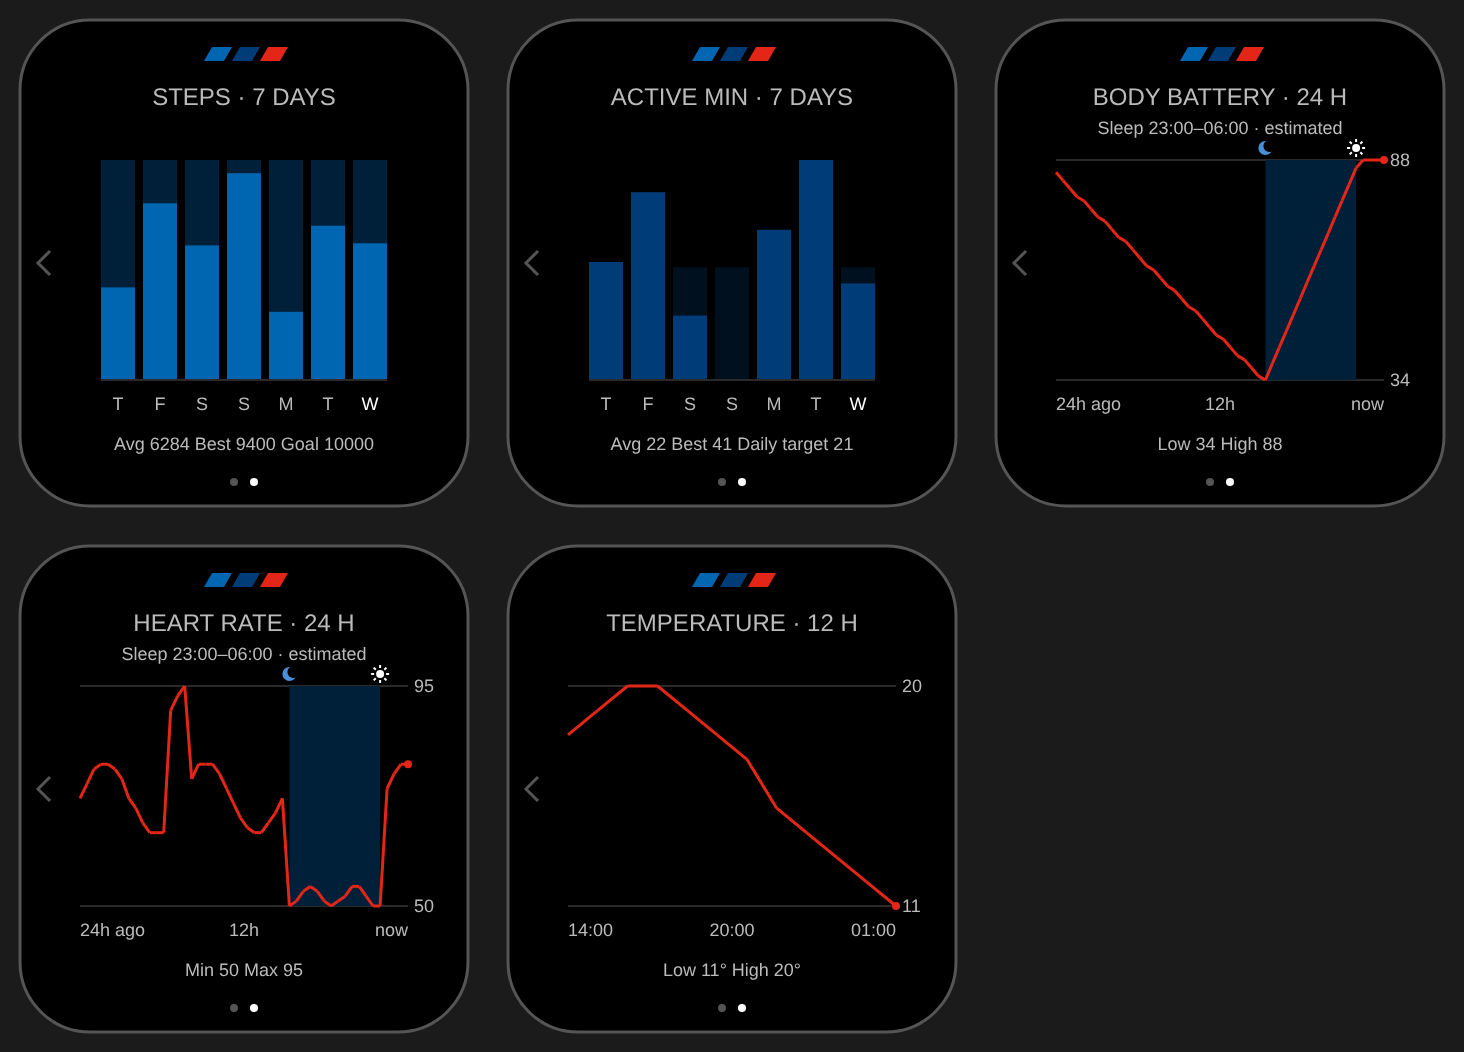
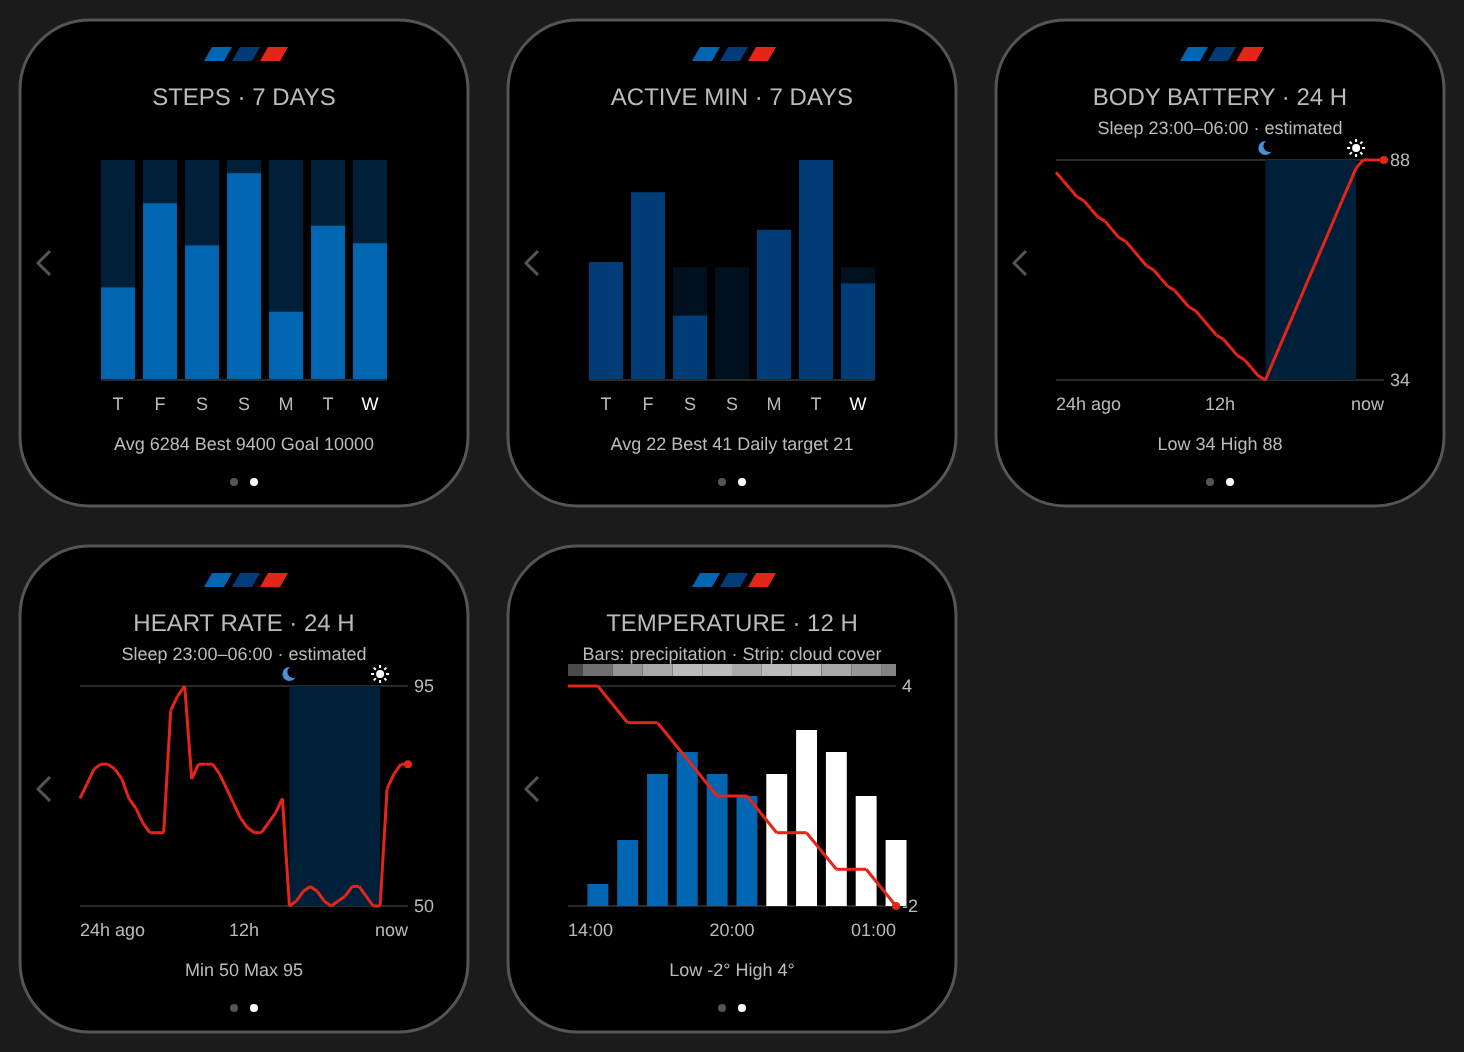
Weather graph: precipitation bars (rain or snow) and a cloud cover strip
Overlay the hourly precipitation chance as bars behind the temperature line and
the hourly cloud cover as a grey strip above the chart, from HourlyForecast
precipitationChance and cloudCover. Colour the bars blue for rain and white for
snow and other frozen precipitation, decided from the condition code by a new
pure Precip module with tests. Label the bars "precipitation", not "rain".
Stats.greyLevel() maps cloud percent to a grey (tested). Add a few more
condition names (flurries, sleet, wintry mix, freezing rain, hail, mostly clear)
to the weather page; all names confirmed in the SDK reference.

Claude-Session: https://claude.ai/code/session_01CEiR5mX4CwQUtKoZKTxSUA

Changed region(s): [[0.3689, 0.6084, 0.6455, 0.8821], [0.4611, 0.9125, 0.5533, 0.943]]

diff --git a/tools/wireframes.py b/tools/wireframes.py
@@ -404,7 +404,14 @@ def sun(s, x, y):
         s.line((x + math.cos(a) * 6, y + math.sin(a) * 6), (x + math.cos(a) * 9, y + math.sin(a) * 9), WHITE, 2)
 
 
-def line_chart(s, vals, color, xlabels, sleep=None):
+def grey_level(pct):
+    """Mirror of Stats.greyLevel()."""
+    p = max(0, min(100, pct))
+    v = p * 0xBB // 100
+    return "#%02X%02X%02X" % (v, v, v)
+
+
+def line_chart(s, vals, color, xlabels, sleep=None, rain=None, cloud=None, frozen=None):
     x0, x1 = CHART_X, W - CHART_X
     s.line((x0, CHART_BOTTOM), (x1, CHART_BOTTOM), GREY_DARK, 2)
     s.line((x0, CHART_TOP), (x1, CHART_TOP), GREY_DARK, 2)
@@ -412,6 +419,22 @@ def line_chart(s, vals, color, xlabels, sleep=None):
     lo, hi = min(good), max(good)
     if hi == lo:
         hi = lo + 1
+    if rain and cloud:
+        step = (x1 - x0) / (len(vals) - 1)
+        for i in range(len(vals)):
+            cx_ = x0 + step * i
+            if rain[i]:
+                rh = rain[i] * (CHART_BOTTOM - CHART_TOP) / 100.0
+                s.add('<rect x="%.1f" y="%.1f" width="%.1f" height="%.1f" fill="%s"/>'
+                      % (cx_ - step * .35, CHART_BOTTOM - rh, step * .7, rh, WHITE if frozen and frozen[i] else BLUE))
+            sx, sw = cx_ - step / 2, step
+            if sx < x0:
+                sw -= x0 - sx
+                sx = x0
+            if sx + sw > x1:
+                sw = x1 - sx
+            s.add('<rect x="%.1f" y="%d" width="%.1f" height="12" fill="%s"/>'
+                  % (sx, CHART_TOP - 22, sw, grey_level(cloud[i])))
     if sleep:
         a_, b_ = sleep
         n_ = len(vals)
@@ -476,7 +499,7 @@ def graphs():
         m = (t0 + idx * 30) % (24 * 60)
         return "%02d:%02d" % (m // 60, m % 60)
     note = "Sleep %s–%s · estimated" % (hhmm(sleep[0]), hhmm(sleep[1]))
-    temp = [18, 19, 20, 20, 19, 18, 17, 15, 14, 13, 12, 11]
+    temp = [4, 4, 3, 3, 2, 1, 1, 0, 0, -1, -1, -2]       # a cold evening: rain turns to snow
 
     graph_page(s, 0, 0, "STEPS · 7 DAYS", "Avg 6284   Best 9400   Goal 10000",
                lambda: bar_chart(s, steps, 10000, METRIC["steps"], days))
@@ -486,8 +509,12 @@ def graphs():
                lambda: line_chart(s, body, METRIC["body"], ["24h ago", "12h", "now"], sleep), note)
     graph_page(s, 0, py, "HEART RATE · 24 H", "Min %d   Max %d" % (min(hr), max(hr)),
                lambda: line_chart(s, hr, METRIC["hr"], ["24h ago", "12h", "now"], sleep), note)
-    graph_page(s, px, py, "TEMPERATURE · 12 H", "Low 11&#176;   High 20&#176;",
-               lambda: line_chart(s, temp, METRIC["weather"], ["14:00", "20:00", "01:00"]))
+    rain = [0, 10, 30, 60, 70, 60, 50, 60, 80, 70, 50, 30]
+    frozen = [False] * 7 + [True] * 5                       # rain first, then snow from 21:00
+    cloud = [40, 60, 80, 90, 100, 100, 90, 100, 100, 90, 80, 70]
+    graph_page(s, px, py, "TEMPERATURE · 12 H", "Low %d&#176;   High %d&#176;" % (min(temp), max(temp)),
+               lambda: line_chart(s, temp, METRIC["weather"], ["14:00", "20:00", "01:00"], None, rain, cloud, frozen),
+               "Bars: precipitation · Strip: cloud cover")
     return s.doc(tw + 40, th + 40, "-20 -20 %d %d" % (tw + 40, th + 40))
 
 

diff --git a/README.md b/README.md
@@ -41,7 +41,9 @@ simulator screenshots. They are generated from `source/Theme.mc` by
 - Graph pages. Every metric page has a graph page behind it: steps and active
   minutes for the last 7 days (each day is a small gauge: dark track up to the goal,
   bright fill to the value, in the same colours as the dial rings), body battery over 24 hours,
-  heart rate over 24 hours, and a 12 hour temperature forecast for weather.
+  heart rate over 24 hours, and a 12 hour temperature forecast for weather, with precipitation bars behind the line (blue for rain, white for snow and other frozen
+  precipitation)
+  and a cloud-cover strip above it (both are forecast values, like the temperature).
 - Sleep on the body battery and heart rate graphs: a faint band with a moon at
   bedtime and a sun at wake time, and a caption saying where it came from. **This is
   not measured sleep.** Connect IQ does not expose sleep data to a watch face; the only
@@ -70,6 +72,7 @@ source/
   PageNav.mc            which page is open and how taps move between pages (pure, tested)
   SleepInference.mc     estimated sleep window from heart rate and body battery (pure, tested)
   Stats.mc              min/max/average, time buckets, clock text (pure, tested)
+  Precip.mc             rain vs snow from the forecast condition (tested)
   tests/                unit tests, run with ./tools/test.sh
   BmwMWatchDelegate.mc  forwards taps to the view
 resources/            strings and launcher icon
@@ -110,7 +113,7 @@ Different renderers use different fonts, so text widths vary slightly.
 
 The logic that does not need the watch is split into small modules (`Geometry`,
 `PageNav`, `SleepInference`, `Stats`, `Theme`) and covered by Connect IQ unit tests in
-`source/tests/`: 34 tests for the sleep inference and schedule fallback, page
+`source/tests/`: 37 tests for the sleep inference and schedule fallback, page
 navigation, tap hit-testing, the statistics and bucketing helpers, and the theme
 mappings. Drawing code and anything that reads live watch data is not tested.
 
